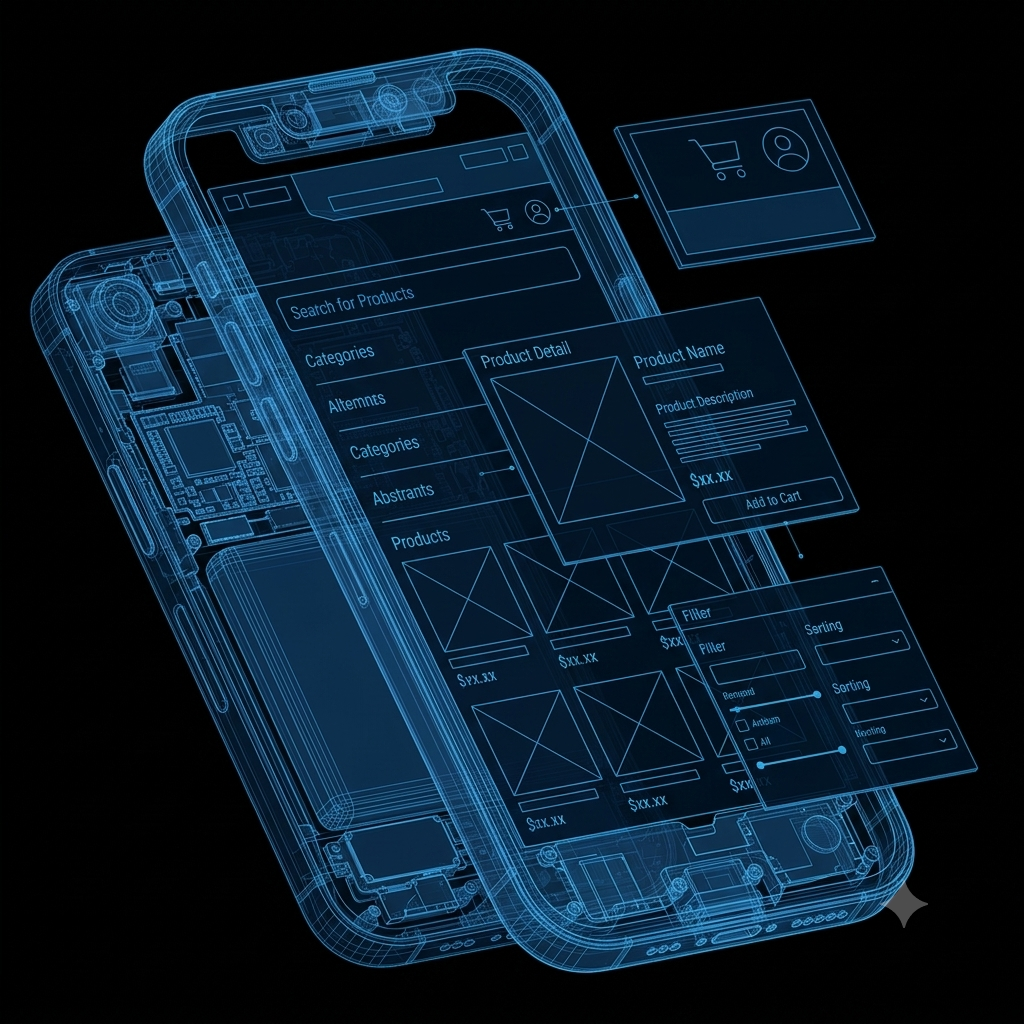
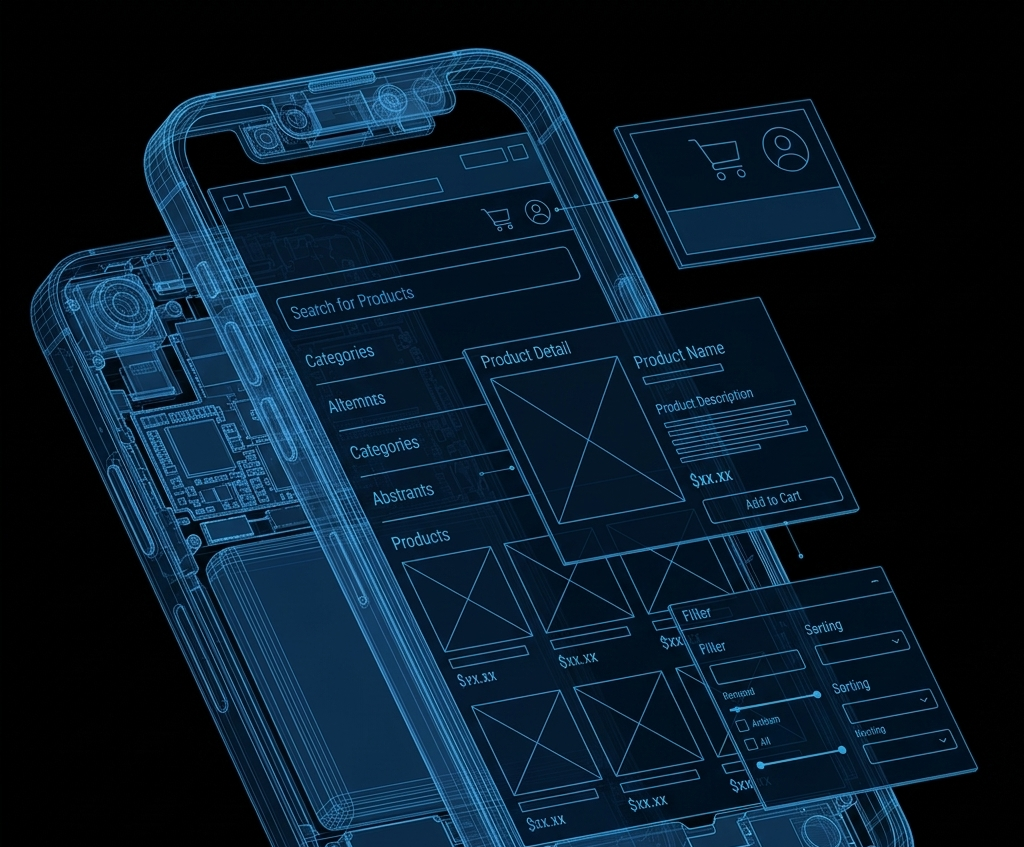
update

diff --git a/modules/homepage.tsx b/modules/homepage.tsx
@@ -76,12 +76,12 @@ export default function HomePage() {
                 <div className="mb-10 md:mb-12">
                     <h2
                         id="services"
-                        className="text-xl sm:text-2xl md:text-4xl text-white font-light mb-3 tracking-tight font-medium"
+                        className="text-xl sm:text-2xl md:text-4xl text-white tracking-tight font-medium mb-3"
                     >
                         What Can I Do?
                     </h2>
                     <p className="text-neutral-300 text-sm md:text-base max-w-lg leading-relaxed">
-                        Full-stack web systems development, third-party API integration, and product design.
+                        End-to-end web systems engineering, third-party API integration, and product UI/UX design.
                     </p>
                 </div>
 
@@ -90,24 +90,23 @@ export default function HomePage() {
 
                     {/* Frontend */}
                     <div className="
-                        md:col-span-2 relative group overflow-hidden
-                        rounded-2xl border border-white/[0.07] bg-white/[0.03] backdrop-blur-md
-                        p-5 sm:p-6 flex flex-col justify-between
-                        transition-all duration-500
-                        hover:border-white/[0.12] hover:bg-white/[0.05]
-                        hover:shadow-[0_0_40px_-12px_rgba(255,255,255,0.07)]
-                    ">
-                        {/* Inset top highlight */}
+      md:col-span-2 relative group overflow-hidden
+      rounded-2xl border border-white/[0.07] bg-white/[0.03] backdrop-blur-md
+      p-5 sm:p-6 flex flex-col justify-between
+      transition-all duration-500
+      hover:border-white/[0.12] hover:bg-white/[0.05]
+      hover:shadow-[0_0_40px_-12px_rgba(255,255,255,0.07)]
+    ">
                         <div className="pointer-events-none absolute inset-x-0 top-0 h-px bg-gradient-to-r from-transparent via-white/20 to-transparent" />
 
                         <div className="relative z-10">
                             <span className="text-[10px] font-semibold uppercase tracking-[0.18em] text-neutral-500">01 — Interface</span>
                             <h3 className="text-base font-medium text-white mt-2 tracking-tight">Frontend Engineering</h3>
                             <p className="text-neutral-300 text-sm max-w-[85%] sm:max-w-sm mt-2 leading-relaxed">
-                                Responsive web applications optimised for speed, accessibility metrics, and design-to-production precision.
+                                Polished web applications engineered for SEO performance, content discoverability, and precision Figma-to-production execution.
                             </p>
                             <div className="flex gap-2 mt-4 flex-wrap">
-                                {["Next.js", "TypeScript", "Tailwind CSS"].map(tag => (
+                                {["Next.js", "TypeScript", "Tailwind CSS", "React.js"].map(tag => (
                                     <span key={tag} className="text-[11px] bg-white/[0.05] text-neutral-400 px-2.5 py-1 rounded-lg border border-white/[0.07]">
                                         {tag}
                                     </span>
@@ -115,7 +114,6 @@ export default function HomePage() {
                             </div>
                         </div>
 
-                        {/* Decorative image */}
                         <div className="absolute bottom-0 right-0 w-[50%] sm:w-[45%] pointer-events-none transition-transform duration-700 ease-out group-hover:scale-[1.04] group-hover:translate-y-[-4px]">
                             <Image
                                 className="w-full h-auto object-cover object-top rounded-tl-md"
@@ -126,37 +124,27 @@ export default function HomePage() {
                                 priority
                             />
                         </div>
-
-                        {/* Cursor easter-egg */}
-                        {/* <Image
-                            className="absolute z-20 top-1/2 right-1/4 w-[12%] hidden md:block animate-pulse select-none pointer-events-none"
-                            src="/cursor_select.png"
-                            width={200}
-                            height={200}
-                            alt=""
-                            aria-hidden
-                        /> */}
                     </div>
 
                     {/* Backend */}
                     <div className="
-                        relative group overflow-hidden
-                        rounded-2xl border border-white/[0.07] bg-white/[0.14] backdrop-blur-md
-                        p-5 sm:p-6 flex flex-col justify-between
-                        transition-all duration-500
-                        hover:border-white/[0.12] hover:bg-white/[0.05]
-                        hover:shadow-[0_0_40px_-12px_rgba(255,255,255,0.07)]
-                    ">
+      relative group overflow-hidden
+      rounded-2xl border border-white/[0.07] bg-white/[0.14] backdrop-blur-md
+      p-5 sm:p-6 flex flex-col justify-between
+      transition-all duration-500
+      hover:border-white/[0.12] hover:bg-white/[0.05]
+      hover:shadow-[0_0_40px_-12px_rgba(255,255,255,0.07)]
+    ">
                         <div className="pointer-events-none absolute inset-x-0 top-0 h-px bg-gradient-to-r from-transparent via-white/20 to-transparent" />
 
                         <div className="relative z-10">
                             <span className="text-[10px] font-semibold uppercase tracking-[0.18em] text-neutral-500">02 — Architecture</span>
-                            <h3 className="text-base font-medium text-white mt-2 tracking-tight">Backend Systems</h3>
+                            <h3 className="text-base font-medium text-white mt-2 tracking-tight">Backend & Systems</h3>
                             <p className="text-neutral-300 text-sm mt-2 leading-relaxed">
-                                Scalable RESTful APIs, scheduled automations, and transactional database schema design.
+                                Scalable RESTful APIs, multi-threaded automation scripts, automated CRON-based tasks, and SQL database design.
                             </p>
                             <div className="flex gap-2 mt-4 flex-wrap">
-                                {["Go", "Python", "SQL"].map(tag => (
+                                {["Go", "Python", "SQL", "Express.js"].map(tag => (
                                     <span key={tag} className="text-[11px] bg-white/[0.05] text-neutral-400 px-2.5 py-1 rounded-lg border border-white/[0.07]">
                                         {tag}
                                     </span>
@@ -178,23 +166,23 @@ export default function HomePage() {
 
                     {/* UI/UX */}
                     <div className="
-                        md:col-span-3 relative group overflow-hidden
-                        rounded-2xl border border-white/[0.07] bg-white/[0.03] backdrop-blur-md
-                        p-5 sm:p-6 flex flex-col justify-between
-                        transition-all duration-500
-                        hover:border-white/[0.12] hover:bg-white/[0.05]
-                        hover:shadow-[0_0_40px_-12px_rgba(255,255,255,0.07)]
-                    ">
+      md:col-span-3 relative group overflow-hidden
+      rounded-2xl border border-white/[0.07] bg-white/[0.03] backdrop-blur-md
+      p-5 sm:p-6 flex flex-col justify-between
+      transition-all duration-500
+      hover:border-white/[0.12] hover:bg-white/[0.05]
+      hover:shadow-[0_0_40px_-12px_rgba(255,255,255,0.07)]
+    ">
                         <div className="pointer-events-none absolute inset-x-0 top-0 h-px bg-gradient-to-r from-transparent via-white/20 to-transparent" />
 
                         <div className="relative z-10">
                             <span className="text-[10px] font-semibold uppercase tracking-[0.18em] text-neutral-500">03 — Experience</span>
                             <h3 className="text-base font-medium text-white mt-2 tracking-tight">Product UI/UX Design</h3>
                             <p className="text-neutral-300 text-sm max-w-[70%] sm:max-w-md mt-2 leading-relaxed">
-                                Interfaces structured around logical information discovery, functional data-entry workflows, and visual clarity.
+                                User-centric UI/UX improvements, wireframes, and prototypes structured to enhance discoverability and user flow.
                             </p>
                             <div className="flex gap-2 mt-4 flex-wrap">
-                                {["Figma", "Wireframing", "Prototyping"].map(tag => (
+                                {["Figma", "Wireframing", "Prototyping", "User Flow"].map(tag => (
                                     <span key={tag} className="text-[11px] bg-white/[0.05] text-neutral-400 px-2.5 py-1 rounded-lg border border-white/[0.07]">
                                         {tag}
                                     </span>
@@ -202,12 +190,10 @@ export default function HomePage() {
                             </div>
                         </div>
 
-                        {/* Positioned as a corner accent on mobile instead of a full-bleed overlay,
-                            so it no longer sits on top of the text at small widths */}
                         <div className="absolute bottom-[-10%] right-[-10%] w-[65%] xs:w-[55%] md:top-0 md:right-10 md:bottom-0 md:left-auto md:w-[40%] pointer-events-none transition-transform duration-700 ease-out group-hover:scale-[1.02] opacity-60 md:opacity-100">
                             <Image
                                 className="w-full h-auto object-contain pt-1"
-                                src="/mobile.png"
+                                src="/mobile2.png"
                                 width={1200}
                                 height={1200}
                                 alt="UIUX"
